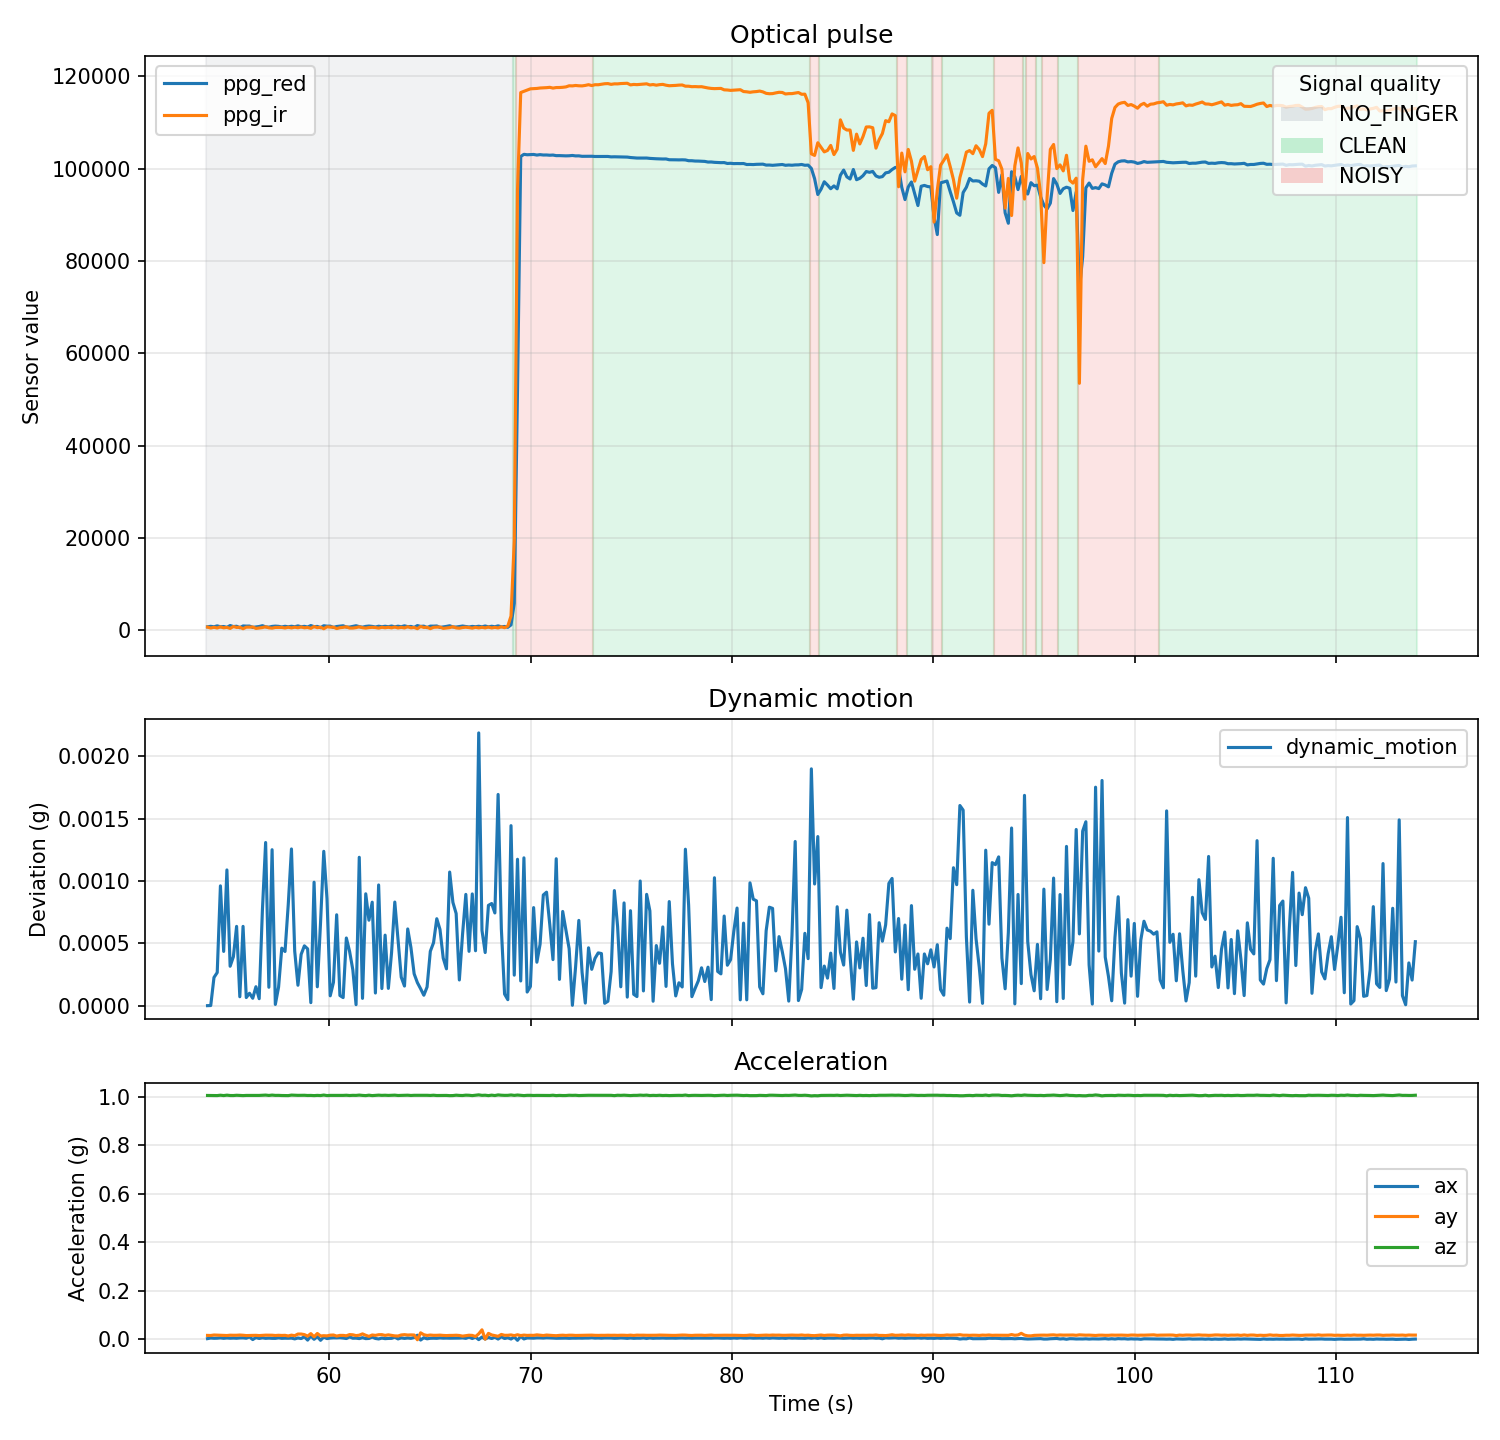
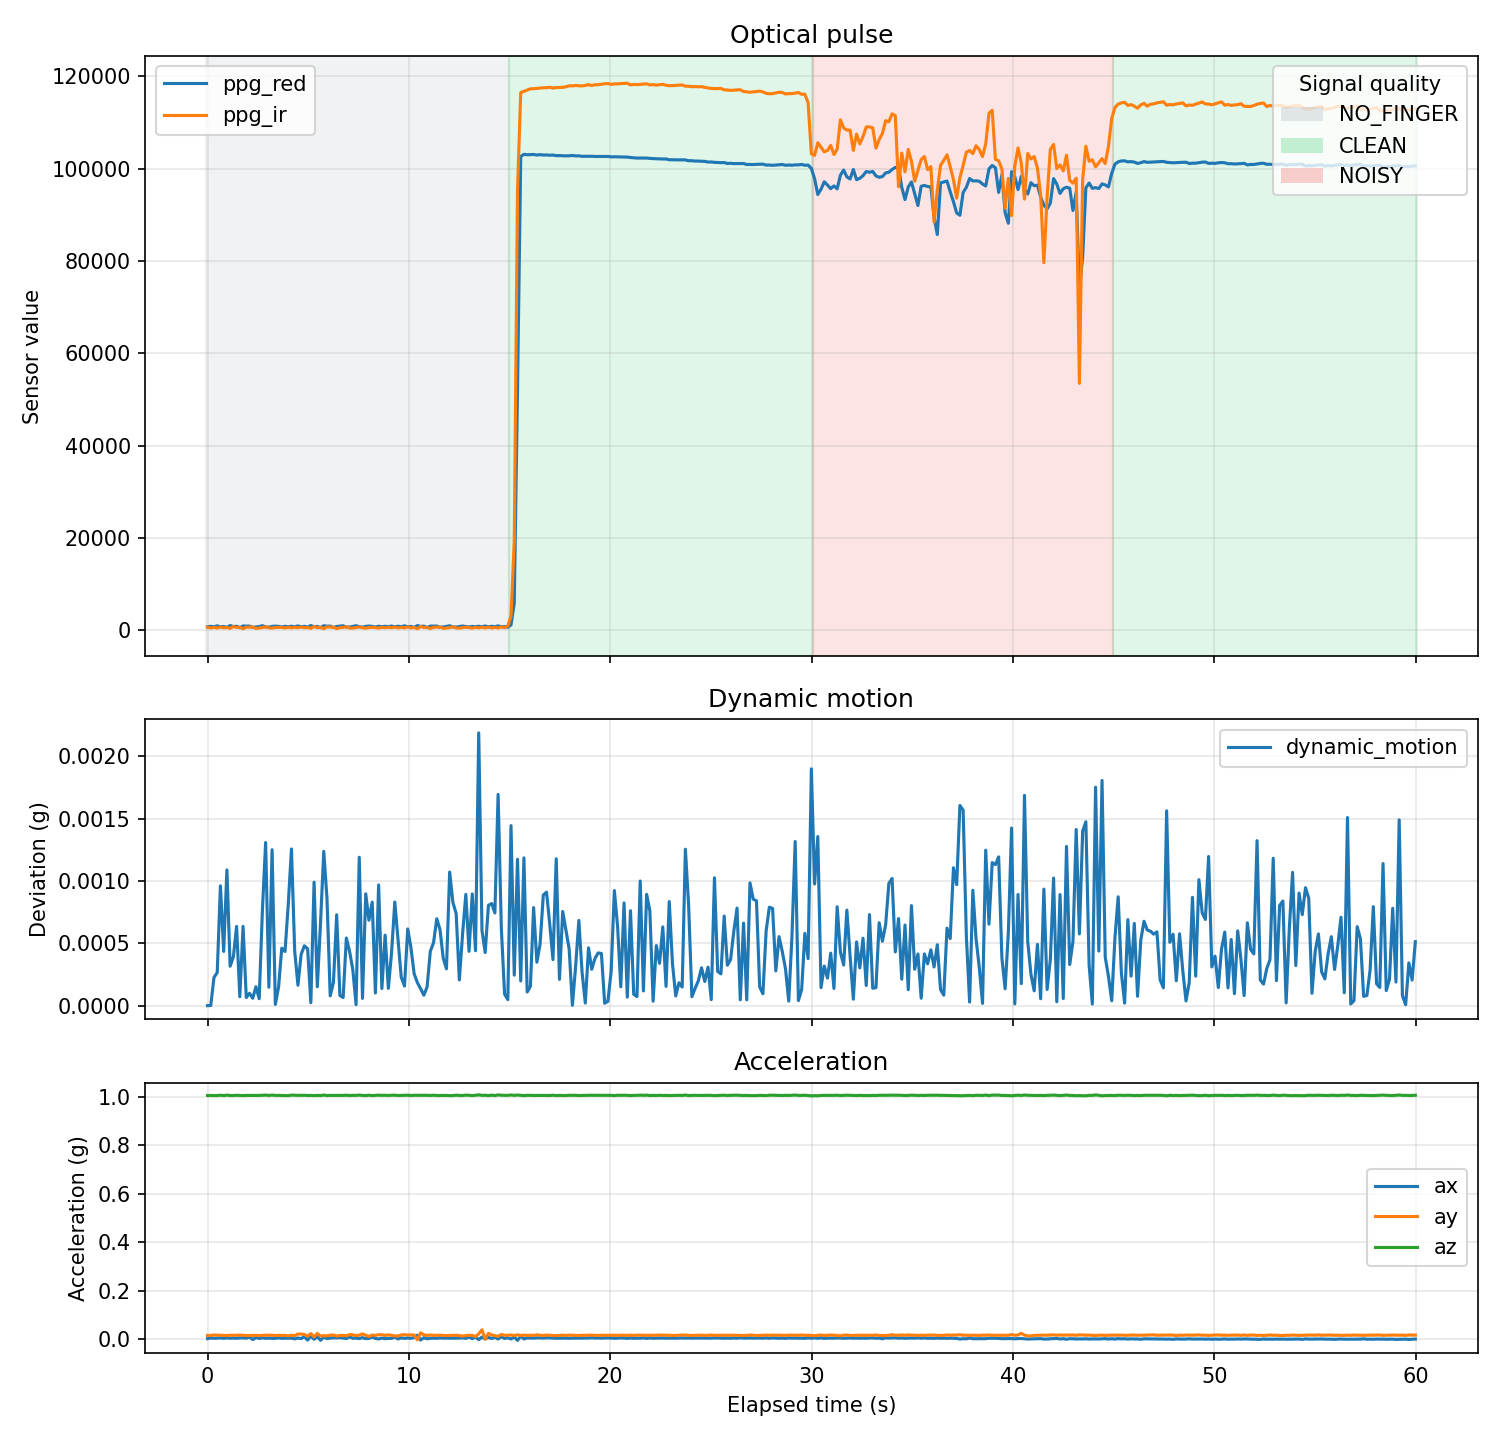
correct capture phase analysis

diff --git a/analysis/pulse_extract.py b/analysis/pulse_extract.py
@@ -81,7 +81,7 @@ def peak_candidates(values: np.ndarray) -> np.ndarray:
         return np.array([], dtype=int)
 
     if scipy_find_peaks is not None:
-        prominence = max(float(np.nanstd(values)) * 0.1, np.finfo(float).eps)
+        prominence = max(float(np.nanstd(values)) * 0.25, np.finfo(float).eps)
         peaks, _ = scipy_find_peaks(values, prominence=prominence)
         return peaks
 
@@ -132,29 +132,43 @@ def main() -> None:
     if missing:
         raise SystemExit(f"Missing required columns: {', '.join(sorted(missing))}")
 
-    time_s = data["time_ms"].to_numpy(dtype=float) / 1000.0
+    time_s = (
+        data["time_ms"].to_numpy(dtype=float) - float(data["time_ms"].iloc[0])
+    ) / 1000.0
     if len(time_s) > 1 and np.any(np.diff(time_s) <= 0):
         raise SystemExit("time_ms must be strictly increasing")
-
-    baseline = data["ppg_ir"].rolling(
-        window=args.window,
-        center=True,
-        min_periods=1,
-    ).mean()
-    data["ppg_ir_detrended"] = data["ppg_ir"] - baseline
 
     if "signal_label" in data.columns:
         valid_rows = data["signal_label"].eq("CLEAN").to_numpy()
     else:
         valid_rows = np.ones(len(data), dtype=bool)
 
-    detrended = data["ppg_ir_detrended"].to_numpy(dtype=float)
+    detrended = np.full(len(data), np.nan)
     detected_peaks = []
     interval_by_peak = {}
+    plot_regions = []
 
     for start, end in contiguous_regions(valid_rows):
-        local_values = detrended[start : end + 1]
-        candidates = (peak_candidates(local_values) + start).tolist()
+        local_signal = data.loc[start:end, "ppg_ir"].astype(float)
+        local_baseline = local_signal.rolling(
+            window=args.window,
+            center=True,
+            min_periods=1,
+        ).mean()
+        detrended[start : end + 1] = (local_signal - local_baseline).to_numpy()
+
+        edge_trim = min(
+            int(round(args.window * 0.75)),
+            max((end - start + 1) // 4, 0),
+        )
+        usable_start = start + edge_trim
+        usable_end = end - edge_trim
+        if usable_end - usable_start < 2:
+            continue
+
+        plot_regions.append((usable_start, usable_end))
+        local_values = detrended[usable_start : usable_end + 1]
+        candidates = (peak_candidates(local_values) + usable_start).tolist()
         region_peaks = enforce_spacing(
             candidates,
             time_s,
@@ -169,9 +183,10 @@ def main() -> None:
             if args.min_distance_s <= interval <= args.max_distance_s:
                 interval_by_peak[current] = interval
 
+    data["ppg_ir_detrended"] = detrended
     detected_peaks = sorted(set(detected_peaks))
     intervals = np.array(list(interval_by_peak.values()), dtype=float)
-    median_bpm = 60.0 / np.median(intervals) if len(intervals) else None
+    median_bpm = 60.0 / np.median(intervals) if len(intervals) >= 3 else None
 
     data["pulse_peak"] = 0
     data["beat_interval_s"] = np.nan
@@ -188,28 +203,54 @@ def main() -> None:
     else:
         print(f"Estimated median BPM: {median_bpm:.1f}")
 
-    figure, axis = plt.subplots(figsize=(11, 5))
-    axis.plot(time_s, detrended, label="ppg_ir_detrended", linewidth=1.2)
-    if detected_peaks:
-        axis.scatter(
-            time_s[detected_peaks],
-            detrended[detected_peaks],
-            color="#dc2626",
-            marker="x",
-            s=42,
-            label="Detected peak",
-            zorder=3,
-        )
-    axis.axhline(0, color="#6b7280", linewidth=0.8, alpha=0.6)
-    axis.set_title(
-        "Detrended infrared pulse"
-        if median_bpm is None
-        else f"Detrended infrared pulse, median {median_bpm:.1f} BPM"
+    if not plot_regions:
+        raise SystemExit("No usable rows available for pulse extraction")
+
+    figure, axes = plt.subplots(
+        len(plot_regions),
+        1,
+        figsize=(11, 3.6 * len(plot_regions)),
+        squeeze=False,
     )
-    axis.set_xlabel("Time (s)")
-    axis.set_ylabel("Detrended IR value")
-    axis.grid(True, alpha=0.3)
-    axis.legend()
+    for region_number, ((start, end), axis) in enumerate(
+        zip(plot_regions, axes[:, 0]),
+        start=1,
+    ):
+        region_slice = slice(start, end + 1)
+        axis.plot(
+            time_s[region_slice],
+            detrended[region_slice],
+            label="ppg_ir_detrended",
+            linewidth=1.2,
+        )
+        region_peaks = [
+            index for index in detected_peaks if start <= index <= end
+        ]
+        if region_peaks:
+            axis.scatter(
+                time_s[region_peaks],
+                detrended[region_peaks],
+                color="#dc2626",
+                marker="x",
+                s=42,
+                label="Detected peak",
+                zorder=3,
+            )
+        axis.axhline(0, color="#6b7280", linewidth=0.8, alpha=0.6)
+        interval_name = (
+            "Clean interval" if "signal_label" in data.columns else "Pulse interval"
+        )
+        axis.set_title(f"{interval_name} {region_number}")
+        axis.set_ylabel("Detrended IR")
+        axis.grid(True, alpha=0.3)
+        axis.legend()
+
+    axes[-1, 0].set_xlabel("Elapsed time (s)")
+    figure.suptitle(
+        "Candidate infrared pulse waveform"
+        if median_bpm is None
+        else f"Candidate infrared pulse waveform, median {median_bpm:.1f} BPM"
+    )
     figure.tight_layout()
 
     args.out_plot.parent.mkdir(parents=True, exist_ok=True)

diff --git a/analysis/signal_quality.py b/analysis/signal_quality.py
@@ -39,6 +39,10 @@ def parse_args() -> argparse.Namespace:
         default=0.01,
         help="Maximum clean motion score.",
     )
+    parser.add_argument(
+        "--phase-labels",
+        help="Known elapsed-time phases, for example 0:NO_FINGER,15:CLEAN.",
+    )
     args = parser.parse_args()
 
     if args.window <= 0:
@@ -49,6 +53,26 @@ def parse_args() -> argparse.Namespace:
         parser.error("quality thresholds must be non-negative")
 
     return args
+
+
+def parse_phase_labels(value: str) -> list[tuple[float, str]]:
+    allowed = {"NO_FINGER", "CLEAN", "NOISY"}
+    phases = []
+
+    for item in value.split(","):
+        try:
+            start_text, label = item.strip().split(":", maxsplit=1)
+            start = float(start_text)
+        except ValueError as exc:
+            raise SystemExit("Invalid --phase-labels format") from exc
+        if start < 0 or label not in allowed:
+            raise SystemExit("Invalid --phase-labels value")
+        phases.append((start, label))
+
+    phases.sort()
+    if not phases or phases[0][0] != 0:
+        raise SystemExit("--phase-labels must begin at 0 seconds")
+    return phases
 
 
 def main() -> None:
@@ -95,6 +119,12 @@ def main() -> None:
         ["NO_FINGER", "NOISY"],
         default="CLEAN",
     )
+
+    if args.phase_labels:
+        phases = parse_phase_labels(args.phase_labels)
+        elapsed_s = (data["time_ms"] - data["time_ms"].iloc[0]) / 1000.0
+        for start, label in phases:
+            data.loc[elapsed_s >= start, "signal_label"] = label
 
     args.out.parent.mkdir(parents=True, exist_ok=True)
     data.to_csv(args.out, index=False)

diff --git a/analysis/plot_csv.py b/analysis/plot_csv.py
@@ -118,8 +118,8 @@ def main() -> None:
         raise SystemExit("No supported signal columns found in the input CSV")
 
     if "time_ms" in data.columns:
-        x = data["time_ms"] / 1000.0
-        x_label = "Time (s)"
+        x = (data["time_ms"] - data["time_ms"].iloc[0]) / 1000.0
+        x_label = "Elapsed time (s)"
     else:
         x = data.index
         x_label = "Sample"

diff --git a/data/README.md b/data/README.md
@@ -2,8 +2,8 @@
 
 `sample_imu.csv` is synthetic input for testing the analysis scripts without hardware.
 
-`combined_contact_motion_001.csv` is the first real combined PPG + IMU hardware capture. It includes no-finger, still-finger, motion/contact artifact, and still-finger recovery periods.
+`combined_contact_motion_001.csv` is the first real combined PPG + IMU hardware capture. Its four 15-second phases are no finger, still finger, deliberate motion/contact artifact, and still-finger recovery.
 
-`combined_contact_motion_001_labeled.csv` adds first-pass `NO_FINGER`, `CLEAN`, and `NOISY` signal-quality labels.
+`combined_contact_motion_001_labeled.csv` adds phase-aligned `NO_FINGER`, `CLEAN`, and `NOISY` signal-quality labels.
 
 Do not treat the synthetic values as measured hardware performance.